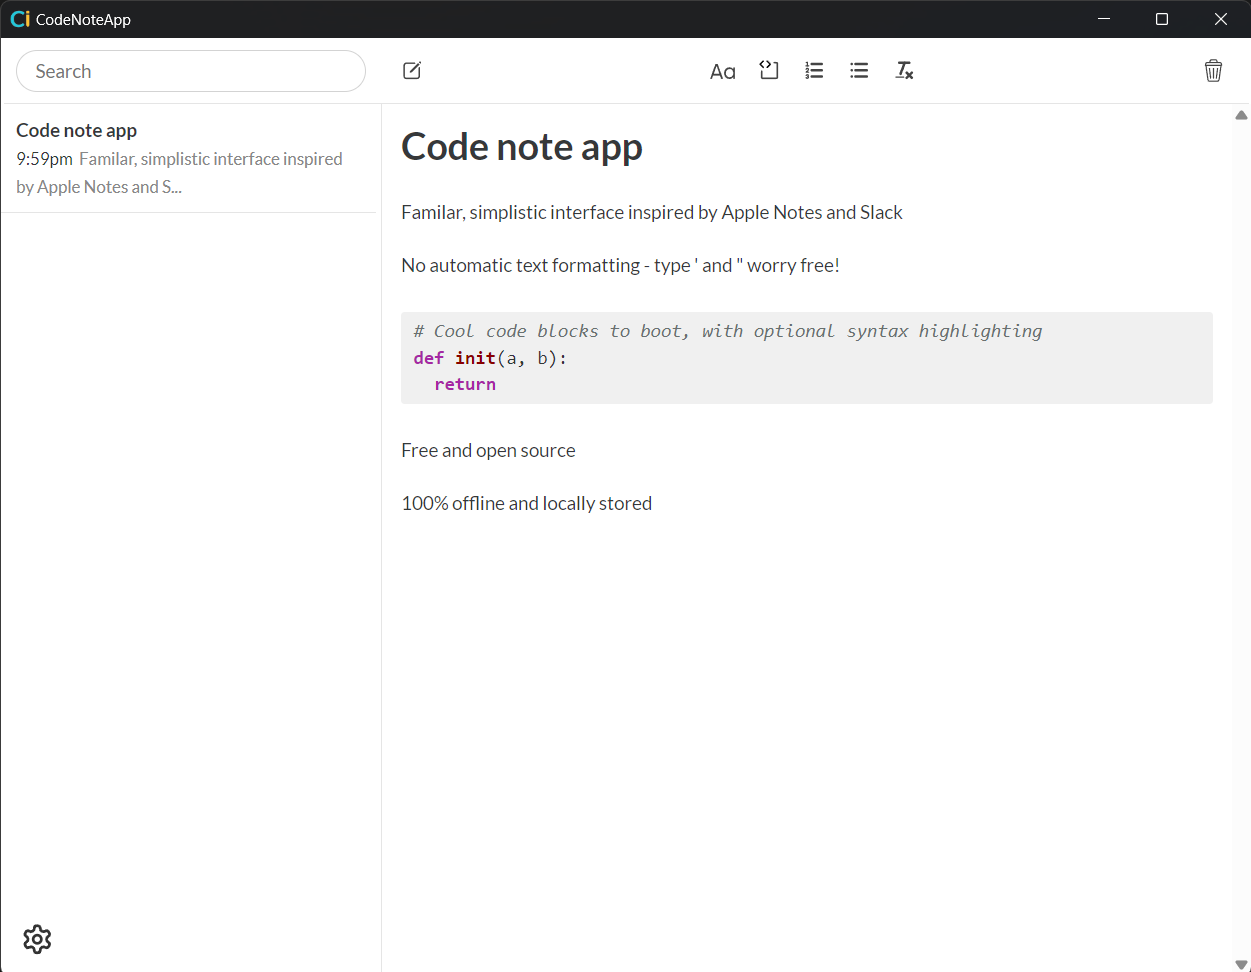
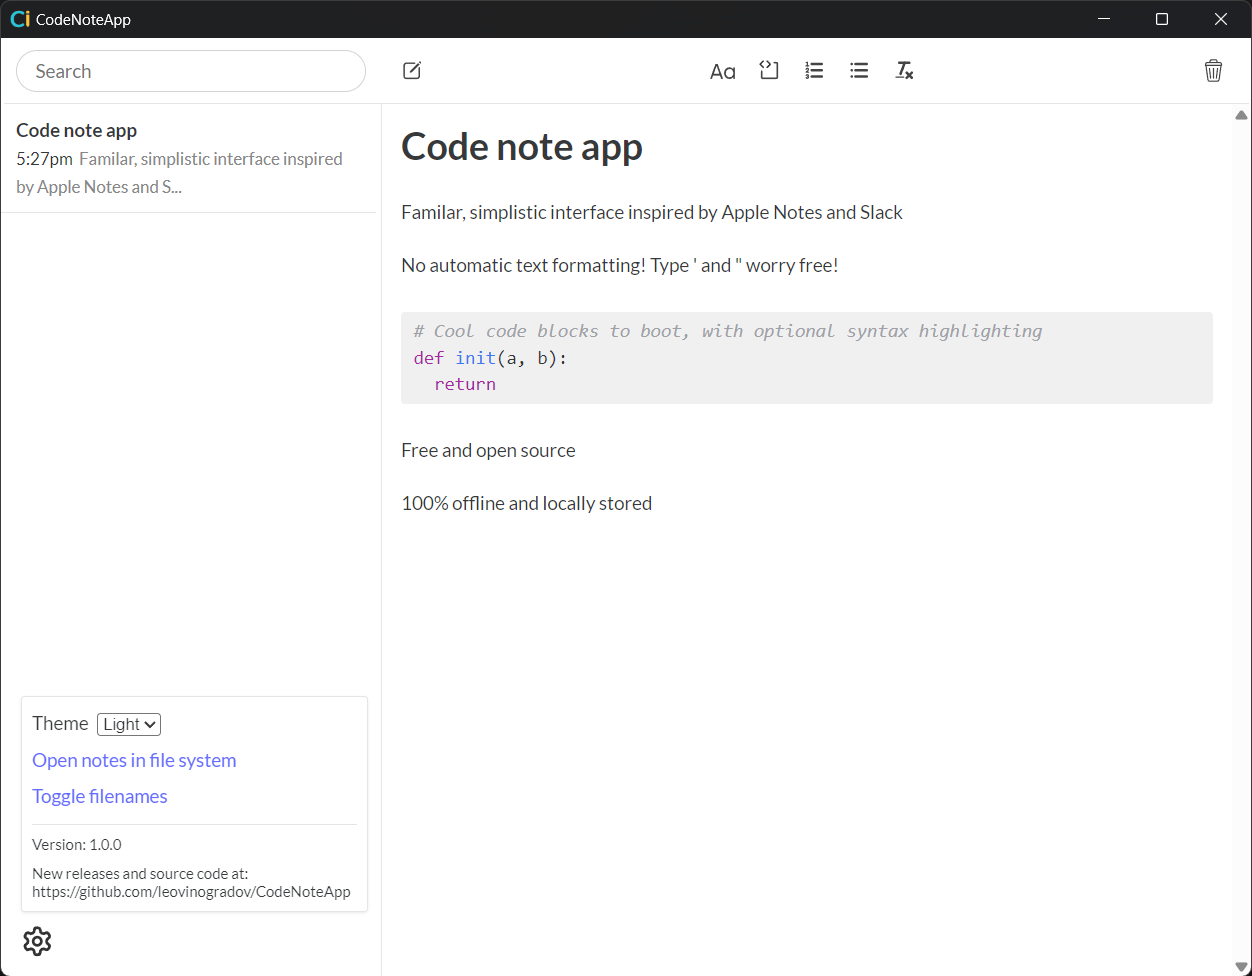
1.0!

diff --git a/src/lib/service/editor.ts b/src/lib/service/editor.ts
@@ -20,10 +20,6 @@ const BackgroundStyle: any = Quill.import("attributors/style/background");
 ColorStyle.whitelist = []; // remove pasted colors
 // @ts-ignore
 BackgroundStyle.whitelist = []; // remove pasted bg colors
-// @ts-ignore
-// Quill.register(ColorStyle);
-// @ts-ignore
-// Quill.register(BackgroundStyle);
 
 Quill.register({ "modules/Searcher": Searcher });
 Quill.register({ 
@@ -32,7 +28,6 @@ Quill.register({
 	"attributors/style/color": ColorStyle,
 	"attributors/style/background": BackgroundStyle
 }, true);
-// Quill.register({ }, true);
 
 
 export interface ExitResult {
@@ -43,7 +38,7 @@ export interface ExitResult {
 	
 export class Editor {
 	// @ts-ignore
-    saveManager: SaveManager;
+  saveManager: SaveManager;
 	quill;
 	searcher;
 	editorEl;
@@ -52,11 +47,11 @@ export class Editor {
 	private _timeOpened: number = 0;
 	// private _clean: Function;
 
-    constructor(editorEl, onModified: Function|null) {
+  constructor(editorEl, onModified: Function|null) {
 		this.editorEl = editorEl
-	    this.quill = new Quill(editorEl, {
-            modules: {
-                syntax: {
+	  this.quill = new Quill(editorEl, {
+			modules: {
+				syntax: {
 					languages: languages
 				},
 				history: {
@@ -64,25 +59,13 @@ export class Editor {
 					maxStack: 100,
 					userOnly: false
 				},
-                toolbar: '#toolbar',
-				// keyboard: {
-				// 	bindings: {
-				// 		undo: {
-				// 			key: ['z', 'Z', 's', 'S'],
-				// 			shortKey: true,
-				// 			handler: function(range, context) {
-				// 				console.log('TEST', context)
-				// 			}
-				// 		},
-				// 	}
-				// }
-            },
+				toolbar: '#toolbar',
+			},
 			bounds: editorEl,
-            placeholder: "Type something...",
-			// theme: "snow",
-            theme: "custom-theme" // "snow", // or 'bubble'
-            // ...options
-        });
+			placeholder: "Type something...",
+			theme: "custom-theme" // "snow", // or 'bubble'
+			// ...options
+    });
 		this.searcher = new Searcher(this.quill, editorEl)
 		
 		// Note: use this for for external format remove functionality if needed
@@ -93,10 +76,10 @@ export class Editor {
 		// 	console.error('Could not bind quill clean function')
 		// }
 
-        this.quill.on("text-change", this._quillOnChange.bind(this))
+    this.quill.on("text-change", this._quillOnChange.bind(this))
 		this.onModified = onModified
 
-		// Hack to register easily quill format buttons without replacing the html inside them
+		// Hack to easily register quill format buttons without replacing the html inside them
 		setTimeout(() => {
 			const toolbar = this.quill.getModule('toolbar')
 			const toolbarEl = document.getElementById('toolbar') as HTMLElement
@@ -109,7 +92,7 @@ export class Editor {
 				}
 			});
 		}, 0)
-    }
+  }
 
 
 	attachToToolbar(elements: HTMLElement[]) {

diff --git a/src/lib/service/constants.ts b/src/lib/service/constants.ts
@@ -71,6 +71,10 @@ export const languages = [
   //     label: 'PHP'
   // }, 
   {
+    key: 'lua',
+    label: 'Lua'
+  },
+  {
     key: 'python',
     label: 'Python'
   },
@@ -79,7 +83,19 @@ export const languages = [
     label: 'Rust'
   },
   {
+    key: 'scss',
+    label: 'SCSS'
+  },
+  {
     key: 'sql',
     label: 'SQL'
+  },
+  {
+    key: 'typescript',
+    label: 'TypeScript'
+  },
+  {
+    key: 'yaml',
+    label: 'YAML'  
   }
 ]

diff --git a/src/App.svelte b/src/App.svelte
@@ -152,7 +152,8 @@
       console.log('Failed to load notes; result was:', data)
       return
     }
-    console.log('Successfully loaded notes:', loadedNotesData)
+    // console.log('Successfully loaded notes:', loadedNotesData)
+    console.log(`loaded ${loadedNotesData.length} notes`)
     
     let notesFormatted = []
     for (let x of loadedNotesData) {

diff --git a/src/lib/components/SettingsOverlay.svelte b/src/lib/components/SettingsOverlay.svelte
@@ -75,7 +75,7 @@
       </div>
     </div>
     <div>
-      <p class="small">Version: 0.0.8</p>
+      <p class="small">Version: 1.0.0</p>
       <p class="small">New releases and source code at: https://github.com/leovinogradov/CodeNoteApp</p>
     </div>
   </div>

diff --git a/README.md b/README.md
@@ -10,7 +10,29 @@ A lightweight app inspired by Apple Notes made for jotting down notes about code
 
 ![CodeNoteApp on Windows](./CodeNoteApp_on_Windows.png?raw=true "Windows Example")
 
-Powered by Tauri, Svelte, and Quill Editor
+#### Powered by Tauri, Svelte, and Quill Editor
+
+
+### List of Keyboard Shortcuts
+
+`Ctrl/Cmd + Plus (+)` : Zoom in / increase font size
+
+`Ctrl/Cmd + Minus (-)` : Zoom out / decrease font size
+
+`Ctrl/Cmd + F` : Find in note
+
+`Ctrl/Cmd + Shift + F` : Find and Replace in note
+
+`Ctrl/Cmd + Shift + C` : Format as inline code
+
+`Ctrl/Cmd + Shift + Alt + C` : Format as code block
+
+`Ctrl/Cmd + Z` : Undo
+
+`Ctrl/Cmd + Y` : Redo
+
+... and the rest of standard text editor shortcuts
+
 
 ### Local development
 
@@ -19,6 +41,7 @@ Install Rust, pnpm
 `pnpm install`
 
 `pnpm tauri dev`
+
 
 ### Recommended IDE Setup
 
